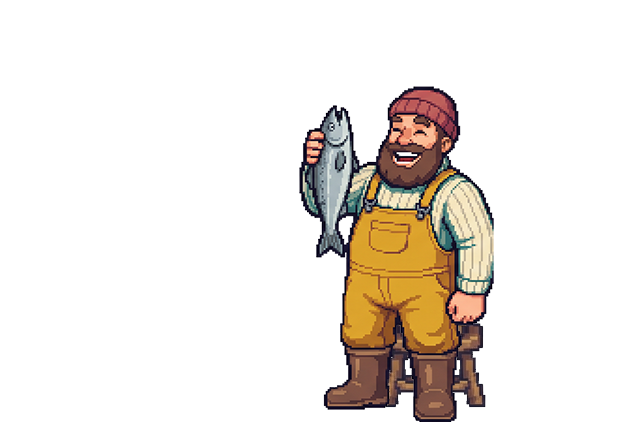
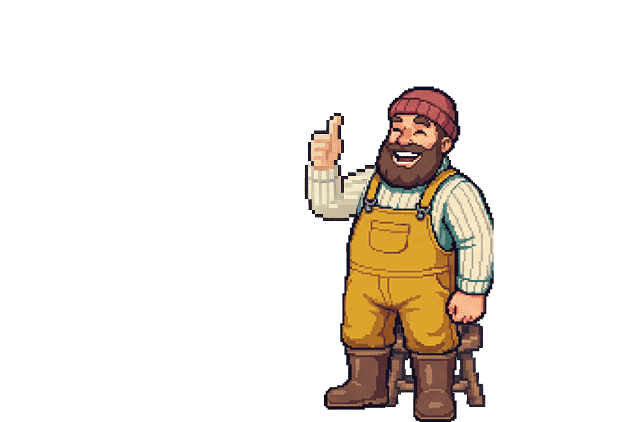
Fiskeren gir tommel opp i stedet for å holde opp feil fisk
Han holdt den samme sølvblanke seien uansett hva du fikk, så en håbrann på to
meter ble en sei i neven. 03 er tegnet om til tommel opp.

01 og 02 holder fortsatt seien, så vi hopper rett til 03 i stedet for å spille
01→02→03. Ellers ville fisken dukket opp og forsvunnet på 0,4 sekund. Kortet
viser uansett arten du faktisk fikk i samme øyeblikk, så tommelen leser som en
reaksjon på den — ikke som en erstatning for fisken.

Changed region(s): [[0.4575, 0.2464, 0.61, 0.6161], [0.6404, 0.3697, 0.6709, 0.4005]]

diff --git a/fiske.html b/fiske.html
@@ -3500,7 +3500,7 @@ function drawBubbles(dt,top,surfY){ var mn=Math.min(W,H), band=H-top; if(band<=0
   }
 }
 function fisherFrame(){
-  if(document.querySelector("#catchModal").classList.contains("on")){ var lf=Math.min(2,Math.floor(liftT*5)); return fisherImg["lofter-fangst-0"+(1+lf)]; } // løfter fangsten ÉN gang (01→02→03), holder på 03
+  if(document.querySelector("#catchModal").classList.contains("on")) return fisherImg["lofter-fangst-03"]; // tommel opp — 01 og 02 held framleis ein sei, sjå kommentaren over
   if(castT>0) return fisherImg[castT>0.22?"kast-01":"kast-02"]; // ETT kast (01→02), så tilbake til å vente
   return fisherImg["venter"]; // venter/napp/sveiv → sittende m/ stang
 }
